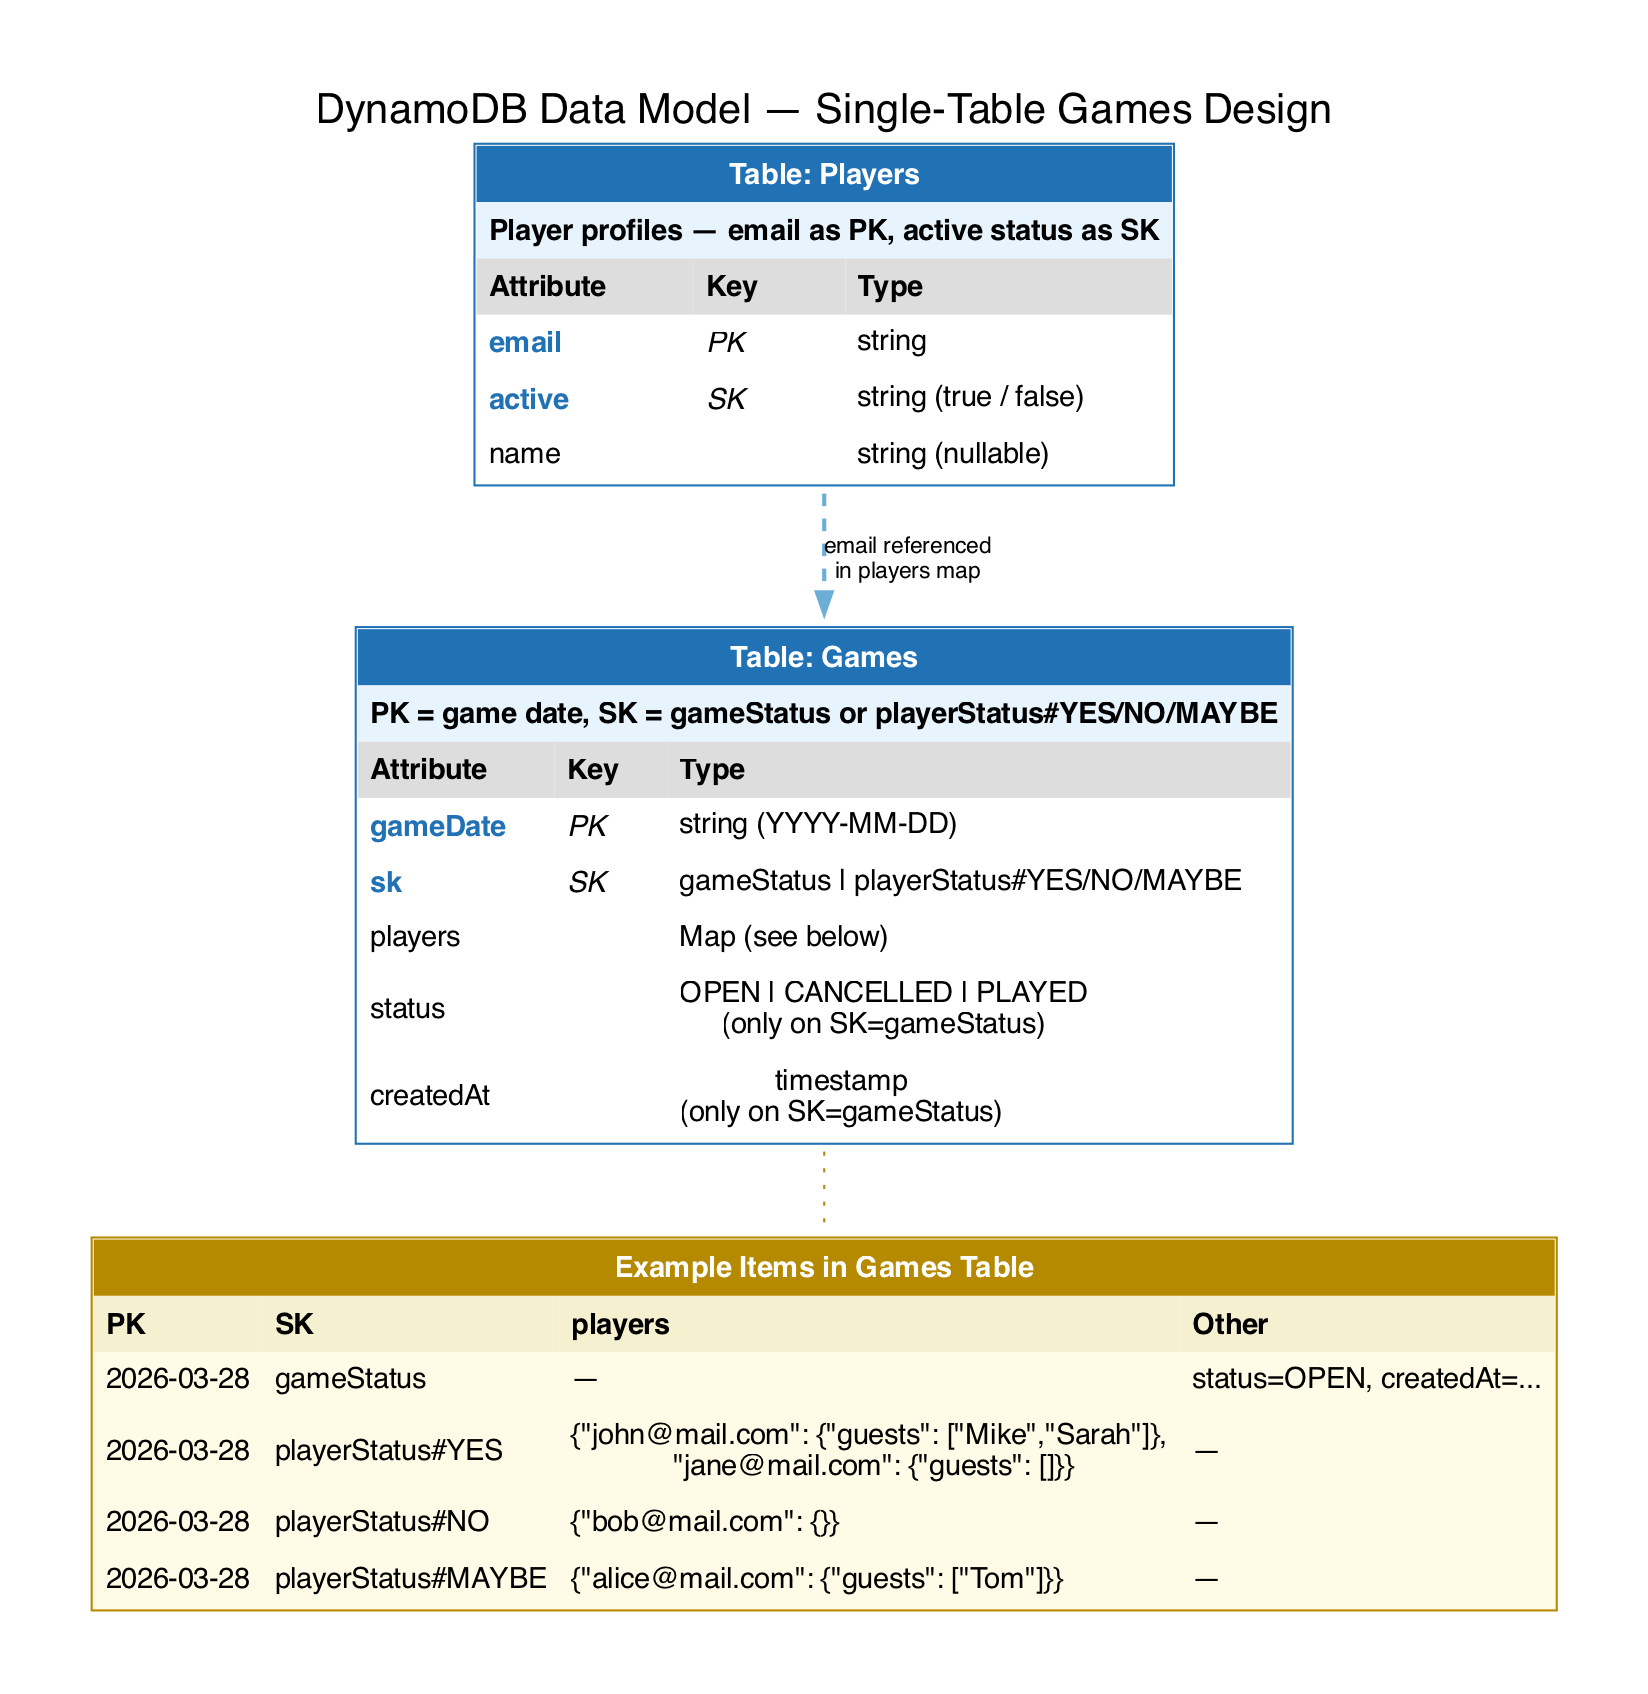
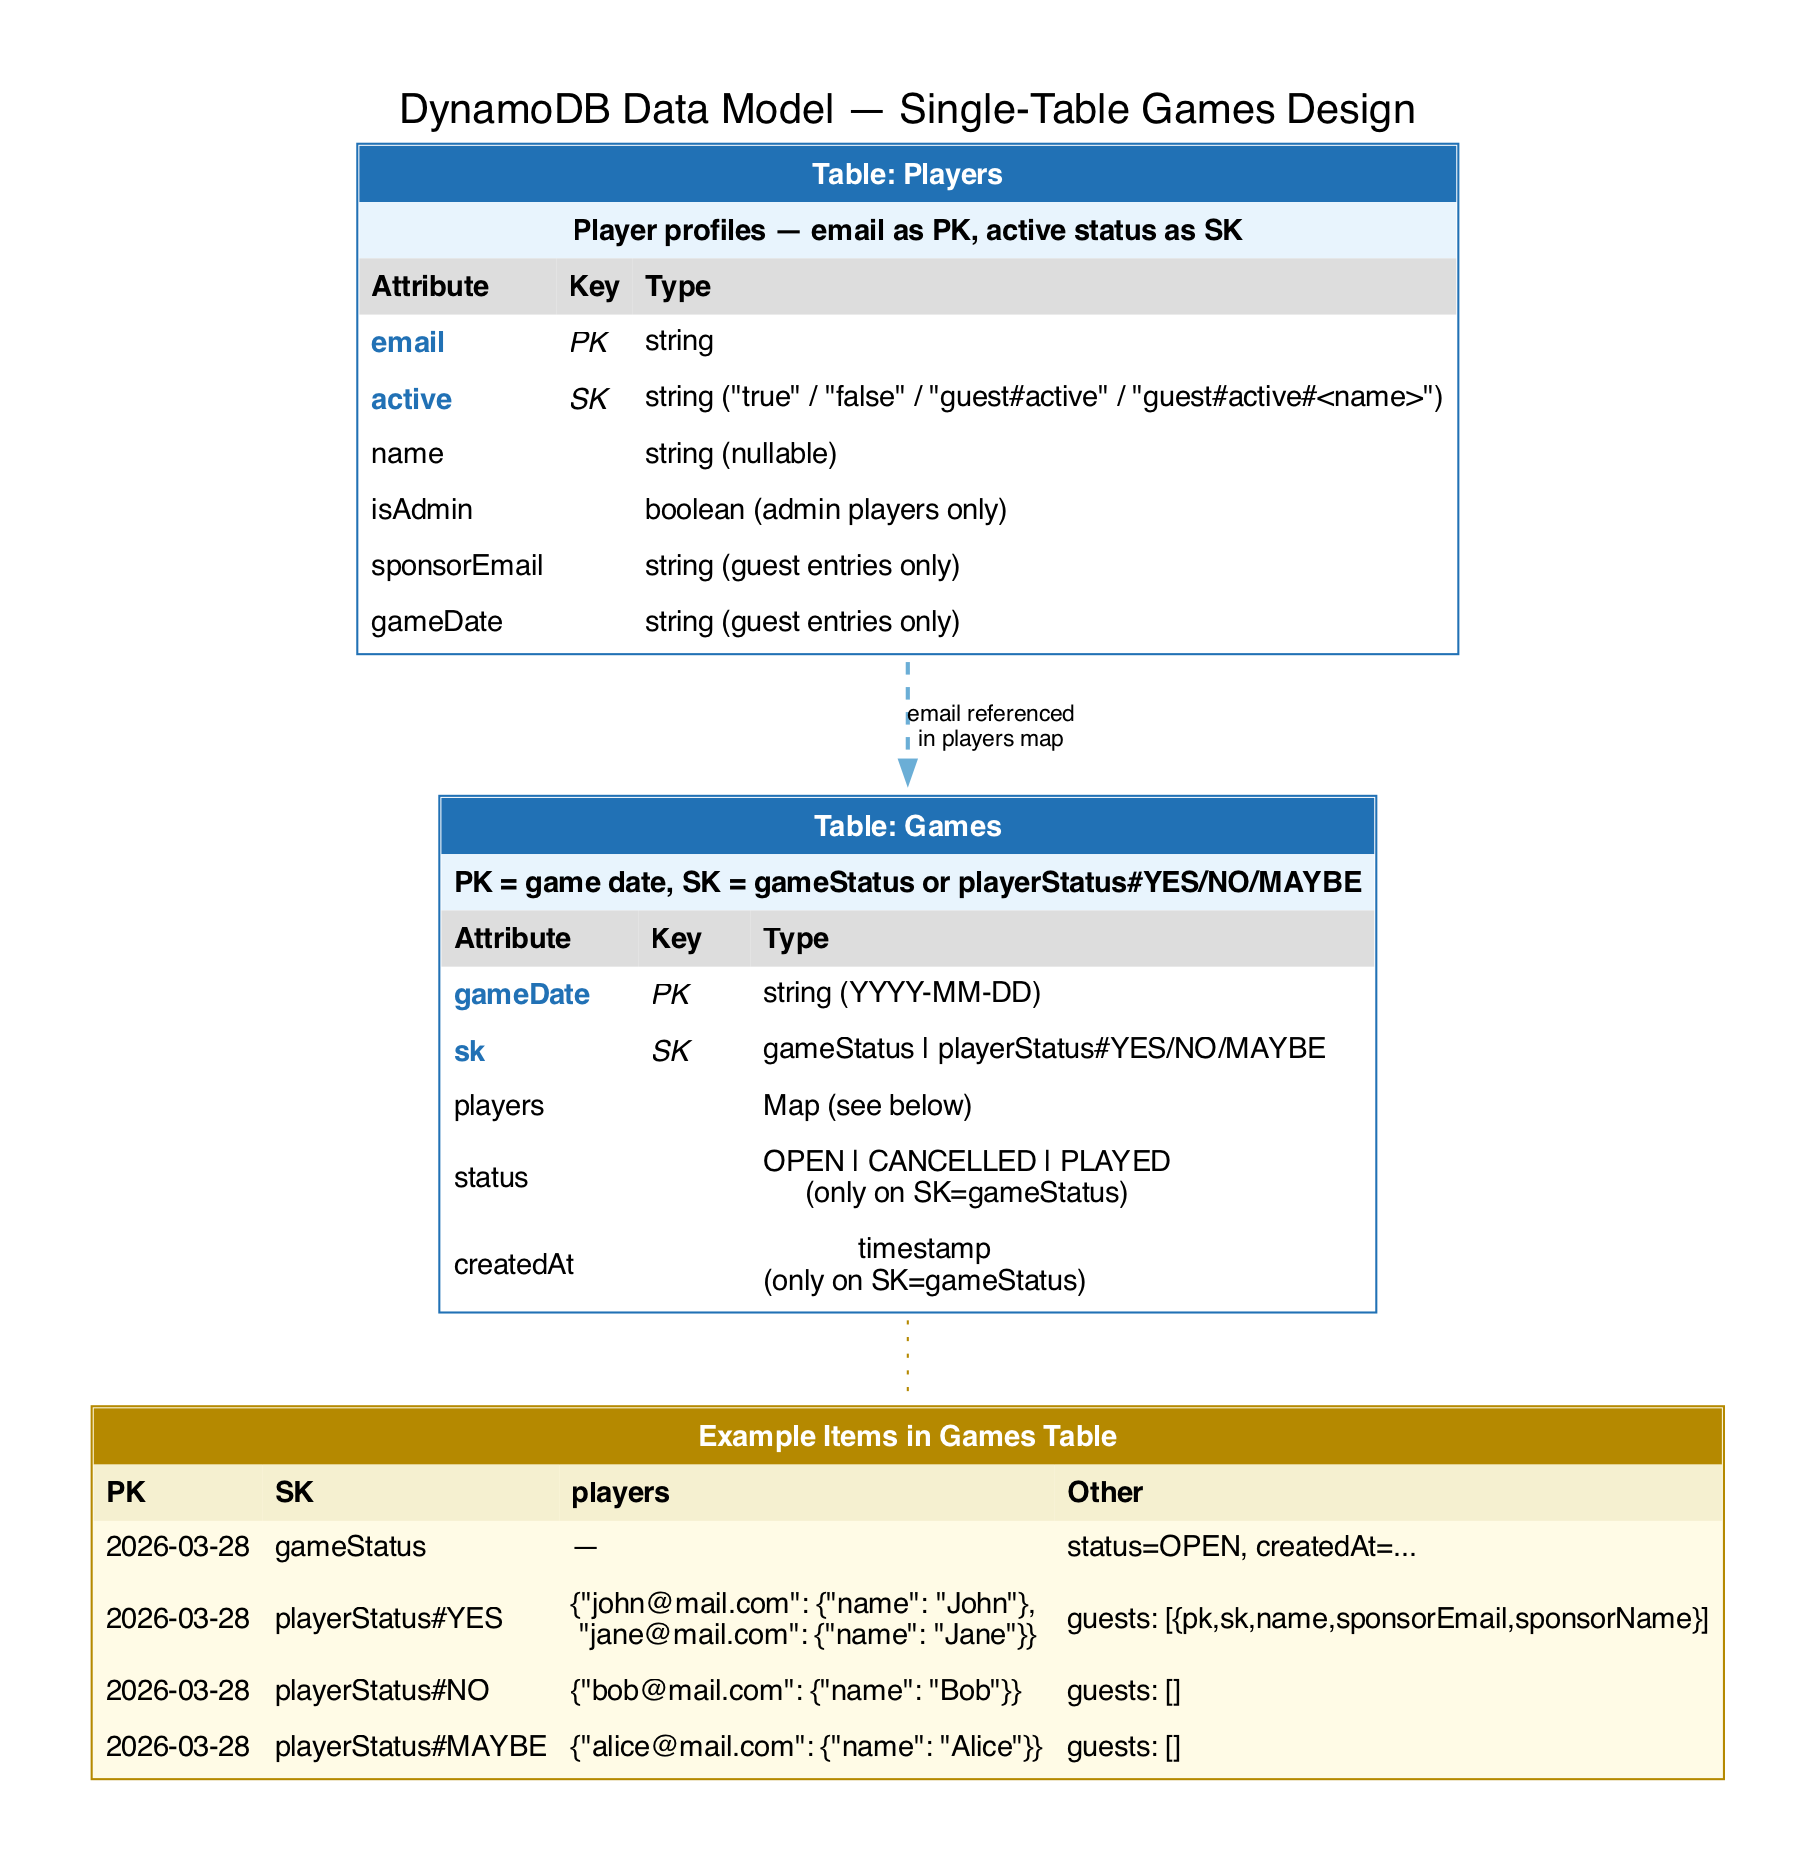
docs: fix data model — add isAdmin field, inactive SK, correct players map shape
- Players table: add isAdmin boolean field (added in admin feature)
- Players table: active SK now documents all four values: "true", "false",
  "guest#active", "guest#active#<name>"
- Data model diagram: fix example items — players map stores {name: str},
  not {guests: [...]}; add isAdmin and guest fields to Players node
- Regenerate 06_data_model.png

Changed region(s): [[0.0309, 0.0307, 0.9593, 0.9823]]

diff --git a/docs/generate_diagrams.py b/docs/generate_diagrams.py
@@ -242,8 +242,11 @@ def diagram_6_data_model():
             <TR><TD BGCOLOR="#e8f4fd" COLSPAN="3"><B>Player profiles — email as PK, active status as SK</B></TD></TR>
             <TR><TD BGCOLOR="#ddd" ALIGN="LEFT"><B>Attribute</B></TD><TD BGCOLOR="#ddd" ALIGN="LEFT"><B>Key</B></TD><TD BGCOLOR="#ddd" ALIGN="LEFT"><B>Type</B></TD></TR>
             <TR><TD ALIGN="LEFT"><FONT COLOR="#2171b5"><B>email</B></FONT></TD><TD ALIGN="LEFT"><I>PK</I></TD><TD ALIGN="LEFT">string</TD></TR>
-            <TR><TD ALIGN="LEFT"><FONT COLOR="#2171b5"><B>active</B></FONT></TD><TD ALIGN="LEFT"><I>SK</I></TD><TD ALIGN="LEFT">string (true / false)</TD></TR>
+            <TR><TD ALIGN="LEFT"><FONT COLOR="#2171b5"><B>active</B></FONT></TD><TD ALIGN="LEFT"><I>SK</I></TD><TD ALIGN="LEFT">string ("true" / "false" / "guest#active" / "guest#active#&lt;name&gt;")</TD></TR>
             <TR><TD ALIGN="LEFT">name</TD><TD ALIGN="LEFT"></TD><TD ALIGN="LEFT">string (nullable)</TD></TR>
+            <TR><TD ALIGN="LEFT">isAdmin</TD><TD ALIGN="LEFT"></TD><TD ALIGN="LEFT">boolean (admin players only)</TD></TR>
+            <TR><TD ALIGN="LEFT">sponsorEmail</TD><TD ALIGN="LEFT"></TD><TD ALIGN="LEFT">string (guest entries only)</TD></TR>
+            <TR><TD ALIGN="LEFT">gameDate</TD><TD ALIGN="LEFT"></TD><TD ALIGN="LEFT">string (guest entries only)</TD></TR>
         </TABLE>
     >''')
 
@@ -267,9 +270,9 @@ def diagram_6_data_model():
             <TR><TD BGCOLOR="#b58900" COLSPAN="4"><FONT COLOR="white"><B>Example Items in Games Table</B></FONT></TD></TR>
             <TR><TD BGCOLOR="#f5f0d0" ALIGN="LEFT"><B>PK</B></TD><TD BGCOLOR="#f5f0d0" ALIGN="LEFT"><B>SK</B></TD><TD BGCOLOR="#f5f0d0" ALIGN="LEFT"><B>players</B></TD><TD BGCOLOR="#f5f0d0" ALIGN="LEFT"><B>Other</B></TD></TR>
             <TR><TD ALIGN="LEFT">2026-03-28</TD><TD ALIGN="LEFT">gameStatus</TD><TD ALIGN="LEFT">—</TD><TD ALIGN="LEFT">status=OPEN, createdAt=...</TD></TR>
-            <TR><TD ALIGN="LEFT">2026-03-28</TD><TD ALIGN="LEFT">playerStatus#YES</TD><TD ALIGN="LEFT">{"john@mail.com": {"guests": ["Mike","Sarah"]},<BR/> "jane@mail.com": {"guests": []}}</TD><TD ALIGN="LEFT">—</TD></TR>
-            <TR><TD ALIGN="LEFT">2026-03-28</TD><TD ALIGN="LEFT">playerStatus#NO</TD><TD ALIGN="LEFT">{"bob@mail.com": {}}</TD><TD ALIGN="LEFT">—</TD></TR>
-            <TR><TD ALIGN="LEFT">2026-03-28</TD><TD ALIGN="LEFT">playerStatus#MAYBE</TD><TD ALIGN="LEFT">{"alice@mail.com": {"guests": ["Tom"]}}</TD><TD ALIGN="LEFT">—</TD></TR>
+            <TR><TD ALIGN="LEFT">2026-03-28</TD><TD ALIGN="LEFT">playerStatus#YES</TD><TD ALIGN="LEFT">{"john@mail.com": {"name": "John"},<BR/> "jane@mail.com": {"name": "Jane"}}</TD><TD ALIGN="LEFT">guests: [{pk,sk,name,sponsorEmail,sponsorName}]</TD></TR>
+            <TR><TD ALIGN="LEFT">2026-03-28</TD><TD ALIGN="LEFT">playerStatus#NO</TD><TD ALIGN="LEFT">{"bob@mail.com": {"name": "Bob"}}</TD><TD ALIGN="LEFT">guests: []</TD></TR>
+            <TR><TD ALIGN="LEFT">2026-03-28</TD><TD ALIGN="LEFT">playerStatus#MAYBE</TD><TD ALIGN="LEFT">{"alice@mail.com": {"name": "Alice"}}</TD><TD ALIGN="LEFT">guests: []</TD></TR>
         </TABLE>
     >''')
 

diff --git a/docs/architecture.md b/docs/architecture.md
@@ -1,7 +1,7 @@
 # Basketball Game Scheduler — Architecture (Approach A)
 
 All processing is handled by Lambda functions triggered by EventBridge (scheduled) or S3 events (inbound emails).
-Natural language understanding is provided by AWS Bedrock (Claude Haiku 3) in eu-west-1 (Ireland).
+Natural language understanding is provided by AWS Bedrock (Claude Haiku 3) in us-east-1 (N. Virginia).
 
 **Estimated cost: ~$1.40–1.80/month**
 
@@ -276,8 +276,9 @@ See you next week!
 | Attribute | Key | Type | Description |
 |---|---|---|---|
 | `email` | **PK** | String | Player's email address, or sponsor's email for nameless guests |
-| `active` | **SK** | String | `true` for permanent players; `guest#active` or `guest#active#<name>` for guests |
+| `active` | **SK** | String | `"true"` for active players; `"false"` for deactivated players; `"guest#active"` or `"guest#active#<name>"` for guests |
 | `name` | — | String (nullable) | Display name |
+| `isAdmin` | — | Boolean | `true` for admin players; absent or `false` for regular players |
 | `sponsorEmail` | — | String | Sponsor's email — guest entries only |
 | `gameDate` | — | String | Game the guest was created for — guest entries only |
 
